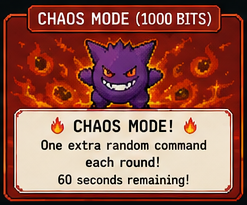
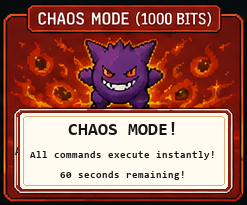
fix

diff --git a/main.py b/main.py
@@ -200,12 +200,12 @@ class App:
     def activate_effect(self,effect,duration,user="",amount=0):
         self.effects[effect]={"end":time.monotonic()+duration,"source":user,"amount":amount}
         labels={"double_votes":"DOUBLE VOTES","speed_round":"SPEED ROUND","chaos":"CHAOS MODE",
-                "anarchy":"ANARCHY MODE","reverse_controls":"REVERSE CONTROLS",
+                "reverse_controls":"REVERSE CONTROLS",
                 "king_mode":"KING MODE"}
         sound={"double_votes":"double_votes.wav","speed_round":"speed_round.wav",
-               "chaos":"chaos.wav","anarchy":"anarchy.wav",
+               "chaos":"chaos.wav",
                "reverse_controls":"reverse_controls.wav",
-               "king_mode":"anarchy.wav"}.get(effect)
+               "king_mode":"gym_win.wav"}.get(effect)
         subtitle=f"Active for {int(duration)} seconds"
         if effect=="king_mode" and user:
             subtitle=f"{user} is king for {int(duration)} seconds"
@@ -221,8 +221,7 @@ class App:
         dialogue={
             "double_votes":("Professor Oak","The trainers are fired up! Everyone's vote power has doubled!"),
             "speed_round":("Bike Shop","Hold on tight! Voting just got a whole lot faster!"),
-            "chaos":("Team Rocket","Prepare for trouble! Every winning move gets an extra A press!"),
-            "anarchy":("Rival","Forget voting—every command goes through right now!"),
+            "chaos":("Team Rocket","Prepare for trouble! Every command goes through right now!"),
             "reverse_controls":("Psychic Trainer","Your sense of direction feels... backwards."),
             "king_mode":("Elite Trainer",f"{user} is king now. Hold on tight!")
         }.get(effect)
@@ -413,7 +412,7 @@ class App:
         w=self.weight(tags)
         self.db.record_vote(user,w,CFG["stream_system"]["trainer_xp_per_vote"])
 
-        if self.effect_active("anarchy"):
+        if self.effect_active("chaos"):
             self.controller.press(self.mapped_key(cmd))
             with self.lock:
                 self.recent.append({"username":user,"command":cmd,"subscriber":is_sub(tags),"weight":w})
@@ -506,8 +505,6 @@ class App:
                 self.round_end=time.monotonic()+self.vote_window
             if winner:
                 self.controller.press(self.mapped_key(winner))
-                if self.effect_active("chaos"):
-                    time.sleep(.05); self.controller.press(self.controls["!a"])
 
     def gym_worker(self):
         ss=CFG["stream_system"]
@@ -565,7 +562,7 @@ class App:
             rem=max(0,self.round_end-time.monotonic())
             return {
                 "connected":self.chat.connected,
-                "mode":"KING MODE" if self.king_mode_owner() else "ANARCHY" if self.effect_active("anarchy") else "DEMOCRACY",
+                "mode":"KING MODE" if self.king_mode_owner() else "CHAOS" if self.effect_active("chaos") else "DEMOCRACY",
                 "time_remaining":rem,
                 "round_progress":1-rem/self.vote_window if self.vote_window else 1,
                 "votes":rows,

diff --git a/overlay_app.py b/overlay_app.py
@@ -39,7 +39,6 @@ ALERT_CARD_EFFECTS = {
     "double_votes",
     "speed_round",
     "chaos",
-    "anarchy",
     "reverse_controls",
     "king_mode",
 }
@@ -648,18 +647,16 @@ class Overlay(QWidget):
         return 1 + c3 * t * t * t + c1 * t * t
 
     def draw_effect_card_alert(self, p, pix, effect, elapsed, dur, intro, outro, alpha):
-        base_w = 520
+        base_w = float(OV.get("alert_card_width", 440))
         base_h = base_w * pix.height() / max(1, pix.width())
         pop = self.ease_out_back(elapsed / .42)
-        pulse_rate = 3.8 if effect in ("chaos", "anarchy") else 2.2
+        pulse_rate = 3.8 if effect == "chaos" else 2.2
         pulse = 1 + math.sin(elapsed * math.pi * pulse_rate) * .012
         scale = (0.84 + .16 * pop) * pulse * (1 - .04 * outro)
         w, h = base_w * scale, base_h * scale
         shake = 0
         if effect == "chaos":
             shake = math.sin(elapsed * 42) * 5 + math.sin(elapsed * 21) * 2
-        elif effect == "anarchy":
-            shake = math.sin(elapsed * 34) * 3
         x = (SRC_W - w) / 2
         y = 132 + (1 - intro) * -42 + math.sin(elapsed * 3.5) * 2 + shake
         if outro:
@@ -672,7 +669,6 @@ class Overlay(QWidget):
             "double_votes": QColor(255, 208, 62, 44),
             "speed_round": QColor(68, 176, 255, 50),
             "chaos": QColor(202, 38, 30, 54),
-            "anarchy": QColor(255, 83, 18, 52),
             "reverse_controls": QColor(150, 98, 235, 48),
             "king_mode": QColor(255, 191, 38, 52),
         }.get(effect, QColor(255, 83, 18, 42))
@@ -706,7 +702,7 @@ class Overlay(QWidget):
                 p.drawLine(QPointF(self.tx(xx), self.ty(yy)), QPointF(self.tx(xx + 130), self.ty(yy - 8)))
             p.setPen(Qt.NoPen)
 
-        particle_count = 18 if effect in ("king_mode", "anarchy", "chaos") else 12
+        particle_count = 18 if effect in ("king_mode", "chaos") else 12
         for i in range(particle_count):
             phase = (elapsed * (.28 + i * .017) + i * .137) % 1
             sx = x + 36 + ((i * 37) % max(1, int(w - 72)))

diff --git a/test_events.py b/test_events.py
@@ -32,9 +32,8 @@ MENU = {
     "4": ("world_event", "DOUBLE VOTES", "TestTrainer used 100 Bits - DOUBLE VOTES for 30s", {"bits": 100, "effect": "double_votes"}, 5),
     "5": ("world_event", "SPEED ROUND", "TestTrainer used 500 Bits - SPEED ROUND for 60s", {"bits": 500, "effect": "speed_round"}, 5),
     "6": ("world_event", "CHAOS MODE", "TestTrainer used 1,000 Bits - CHAOS MODE for 60s", {"bits": 1000, "effect": "chaos"}, 5),
-    "7": ("world_event", "ANARCHY MODE", "TestTrainer used 1,500 Bits - ANARCHY MODE for 60s", {"bits": 1500, "effect": "anarchy"}, 5),
-    "8": ("world_event", "REVERSE CONTROLS", "TestTrainer used 2,000 Bits - REVERSE CONTROLS for 60s", {"bits": 2000, "effect": "reverse_controls"}, 5),
-    "9": ("world_event", "KING MODE", "TestTrainer used 5,000 Bits - KING MODE for 60s", {"bits": 5000, "effect": "king_mode"}, 5),
+    "7": ("world_event", "REVERSE CONTROLS", "TestTrainer used 2,000 Bits - REVERSE CONTROLS for 60s", {"bits": 2000, "effect": "reverse_controls"}, 5),
+    "8": ("world_event", "KING MODE", "TestTrainer used 5,000 Bits - KING MODE for 60s", {"bits": 5000, "effect": "king_mode"}, 5),
 }
 
 ALIASES = {
@@ -47,16 +46,15 @@ ALIASES = {
     "speed": "5",
     "speed_round": "5",
     "chaos": "6",
-    "anarchy": "7",
-    "reverse": "8",
-    "reverse_controls": "8",
-    "king": "9",
-    "king_mode": "9",
+    "reverse": "7",
+    "reverse_controls": "7",
+    "king": "8",
+    "king_mode": "8",
 }
 
 
 def play_all():
-    for key in ("1", "2", "3", "4", "5", "6", "7", "8", "9"):
+    for key in ("1", "2", "3", "4", "5", "6", "7", "8"):
         send(*MENU[key])
         time.sleep(5.7)
 
@@ -78,7 +76,7 @@ if len(sys.argv) > 1:
     raise SystemExit
 
 while True:
-    print("\n1 Sub  2 Gift  3 Resub  4 Double  5 Speed  6 Chaos  7 Anarchy  8 Reverse  9 King  a All  q Quit")
+    print("\n1 Sub  2 Gift  3 Resub  4 Double  5 Speed  6 Chaos  7 Reverse  8 King  a All  q Quit")
     choice = input("> ").strip().lower()
     if choice == "q":
         break
